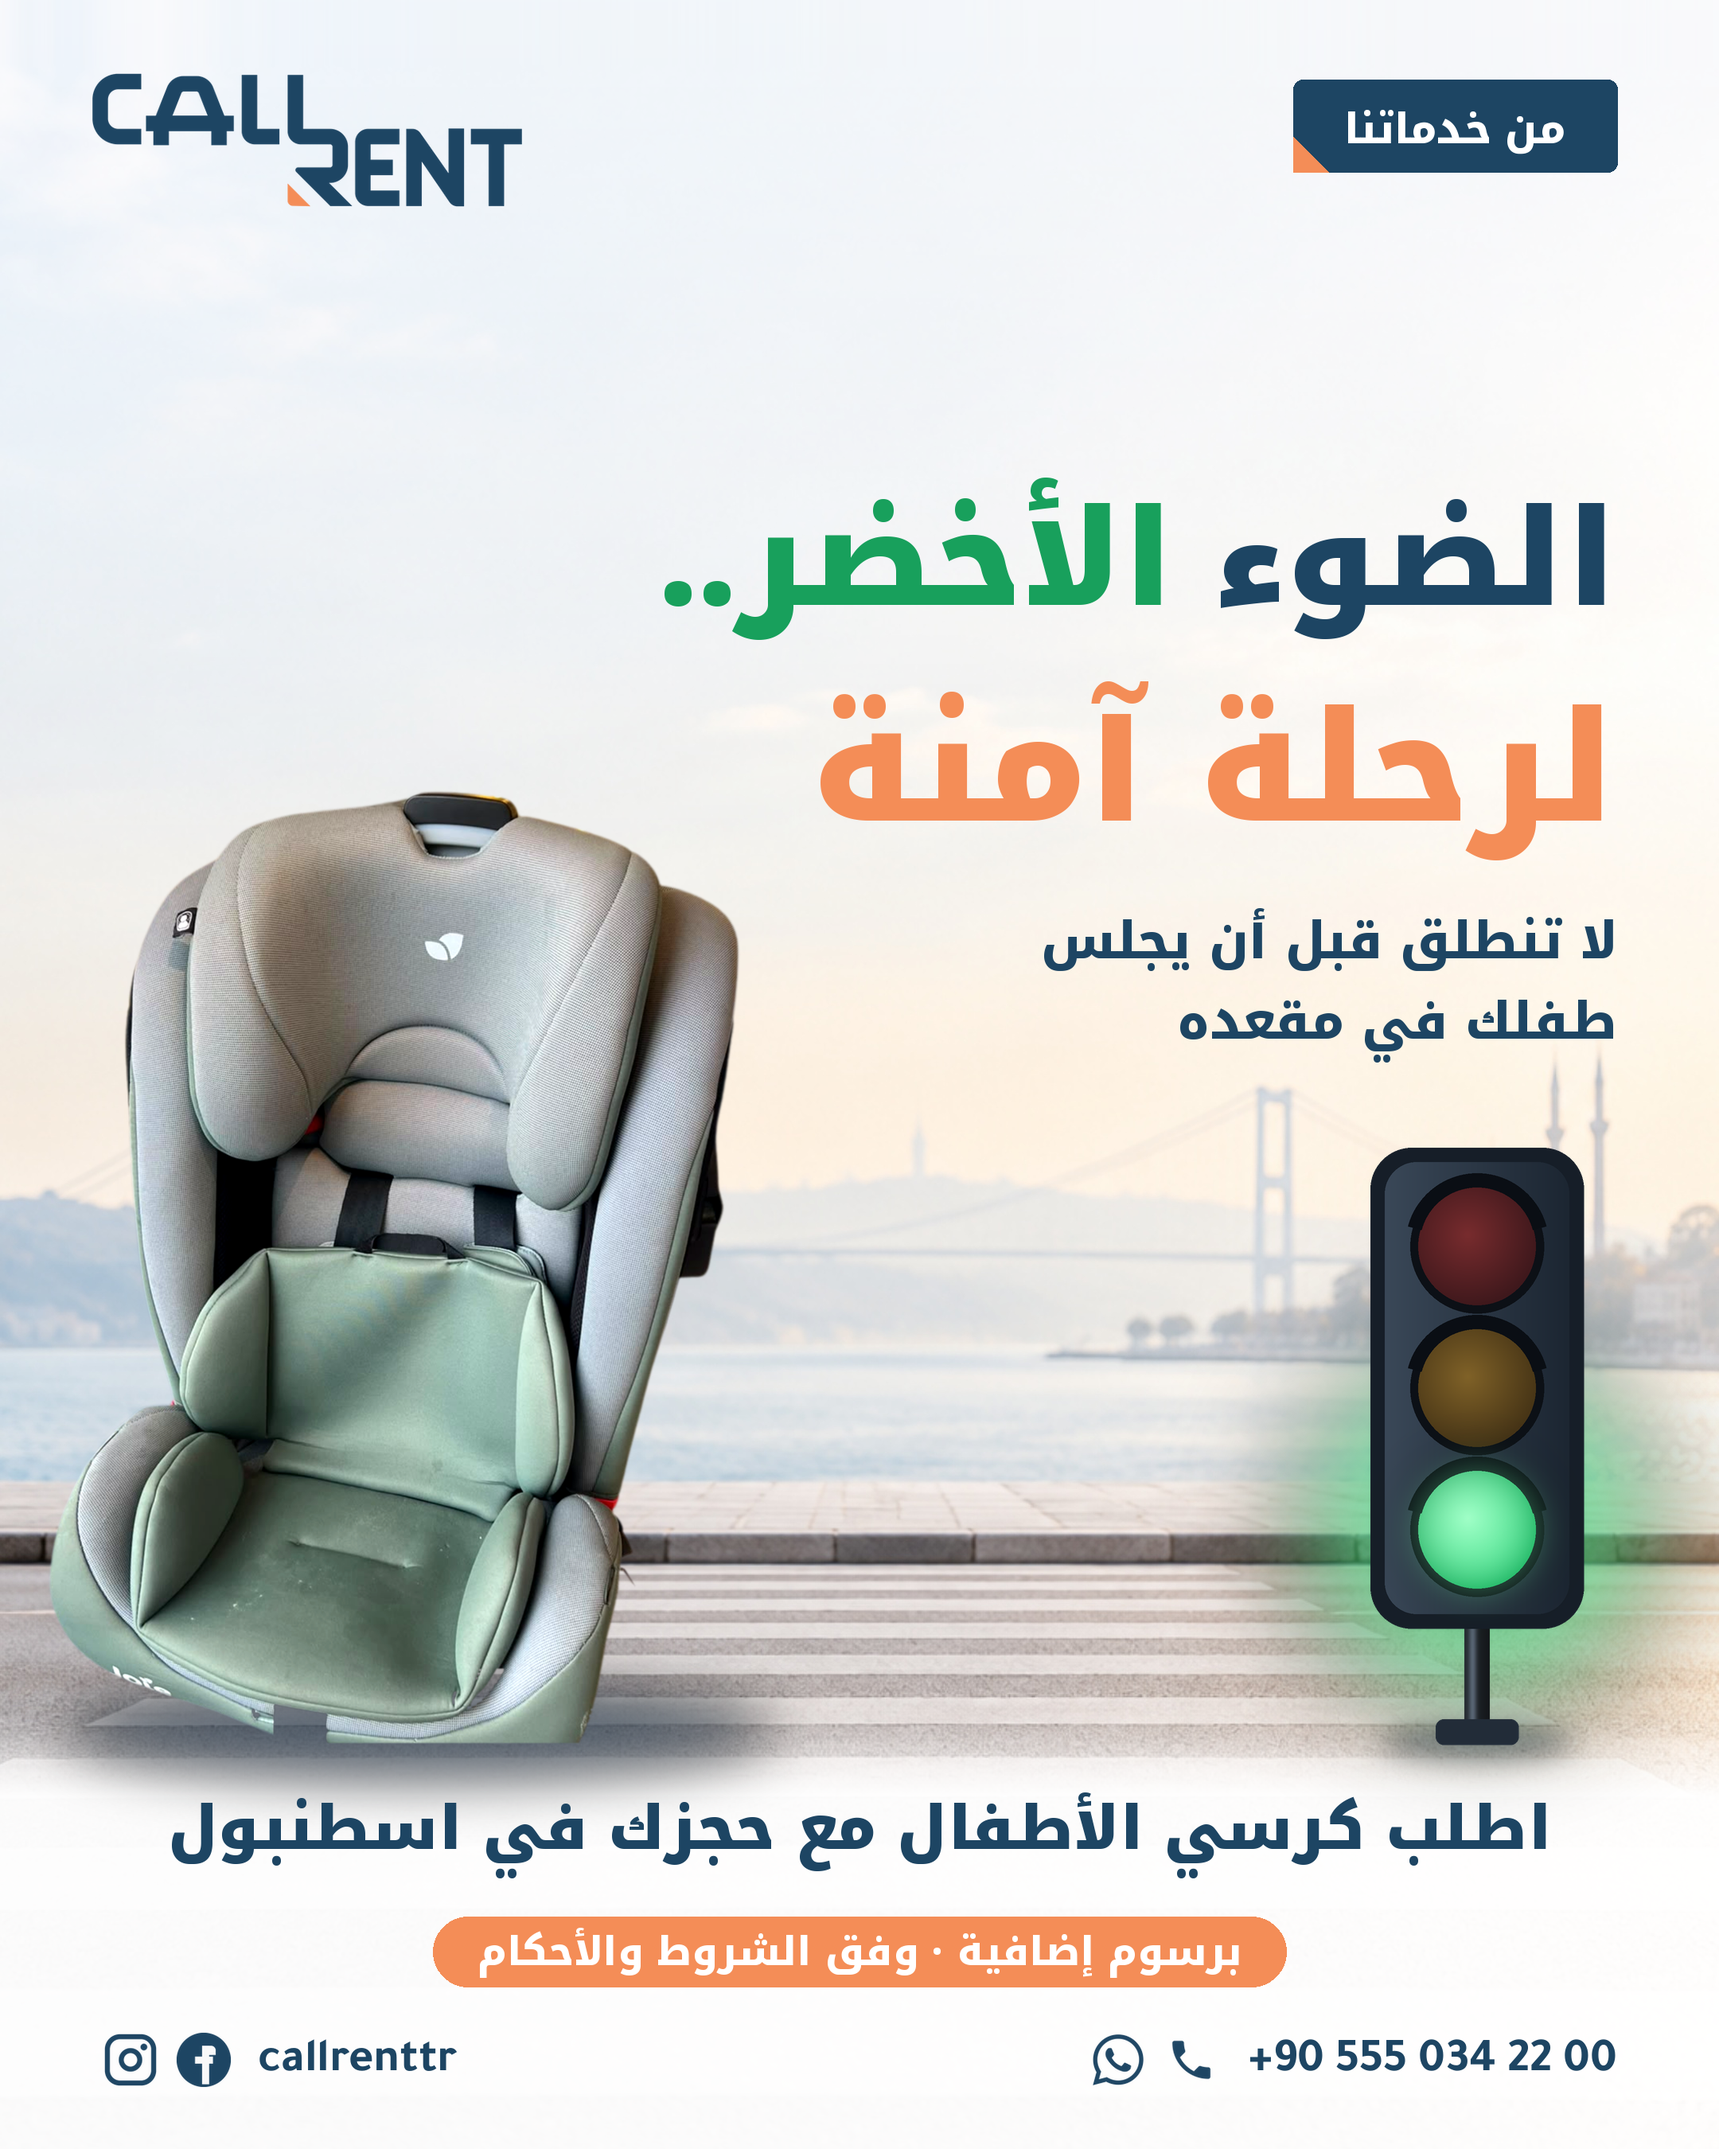
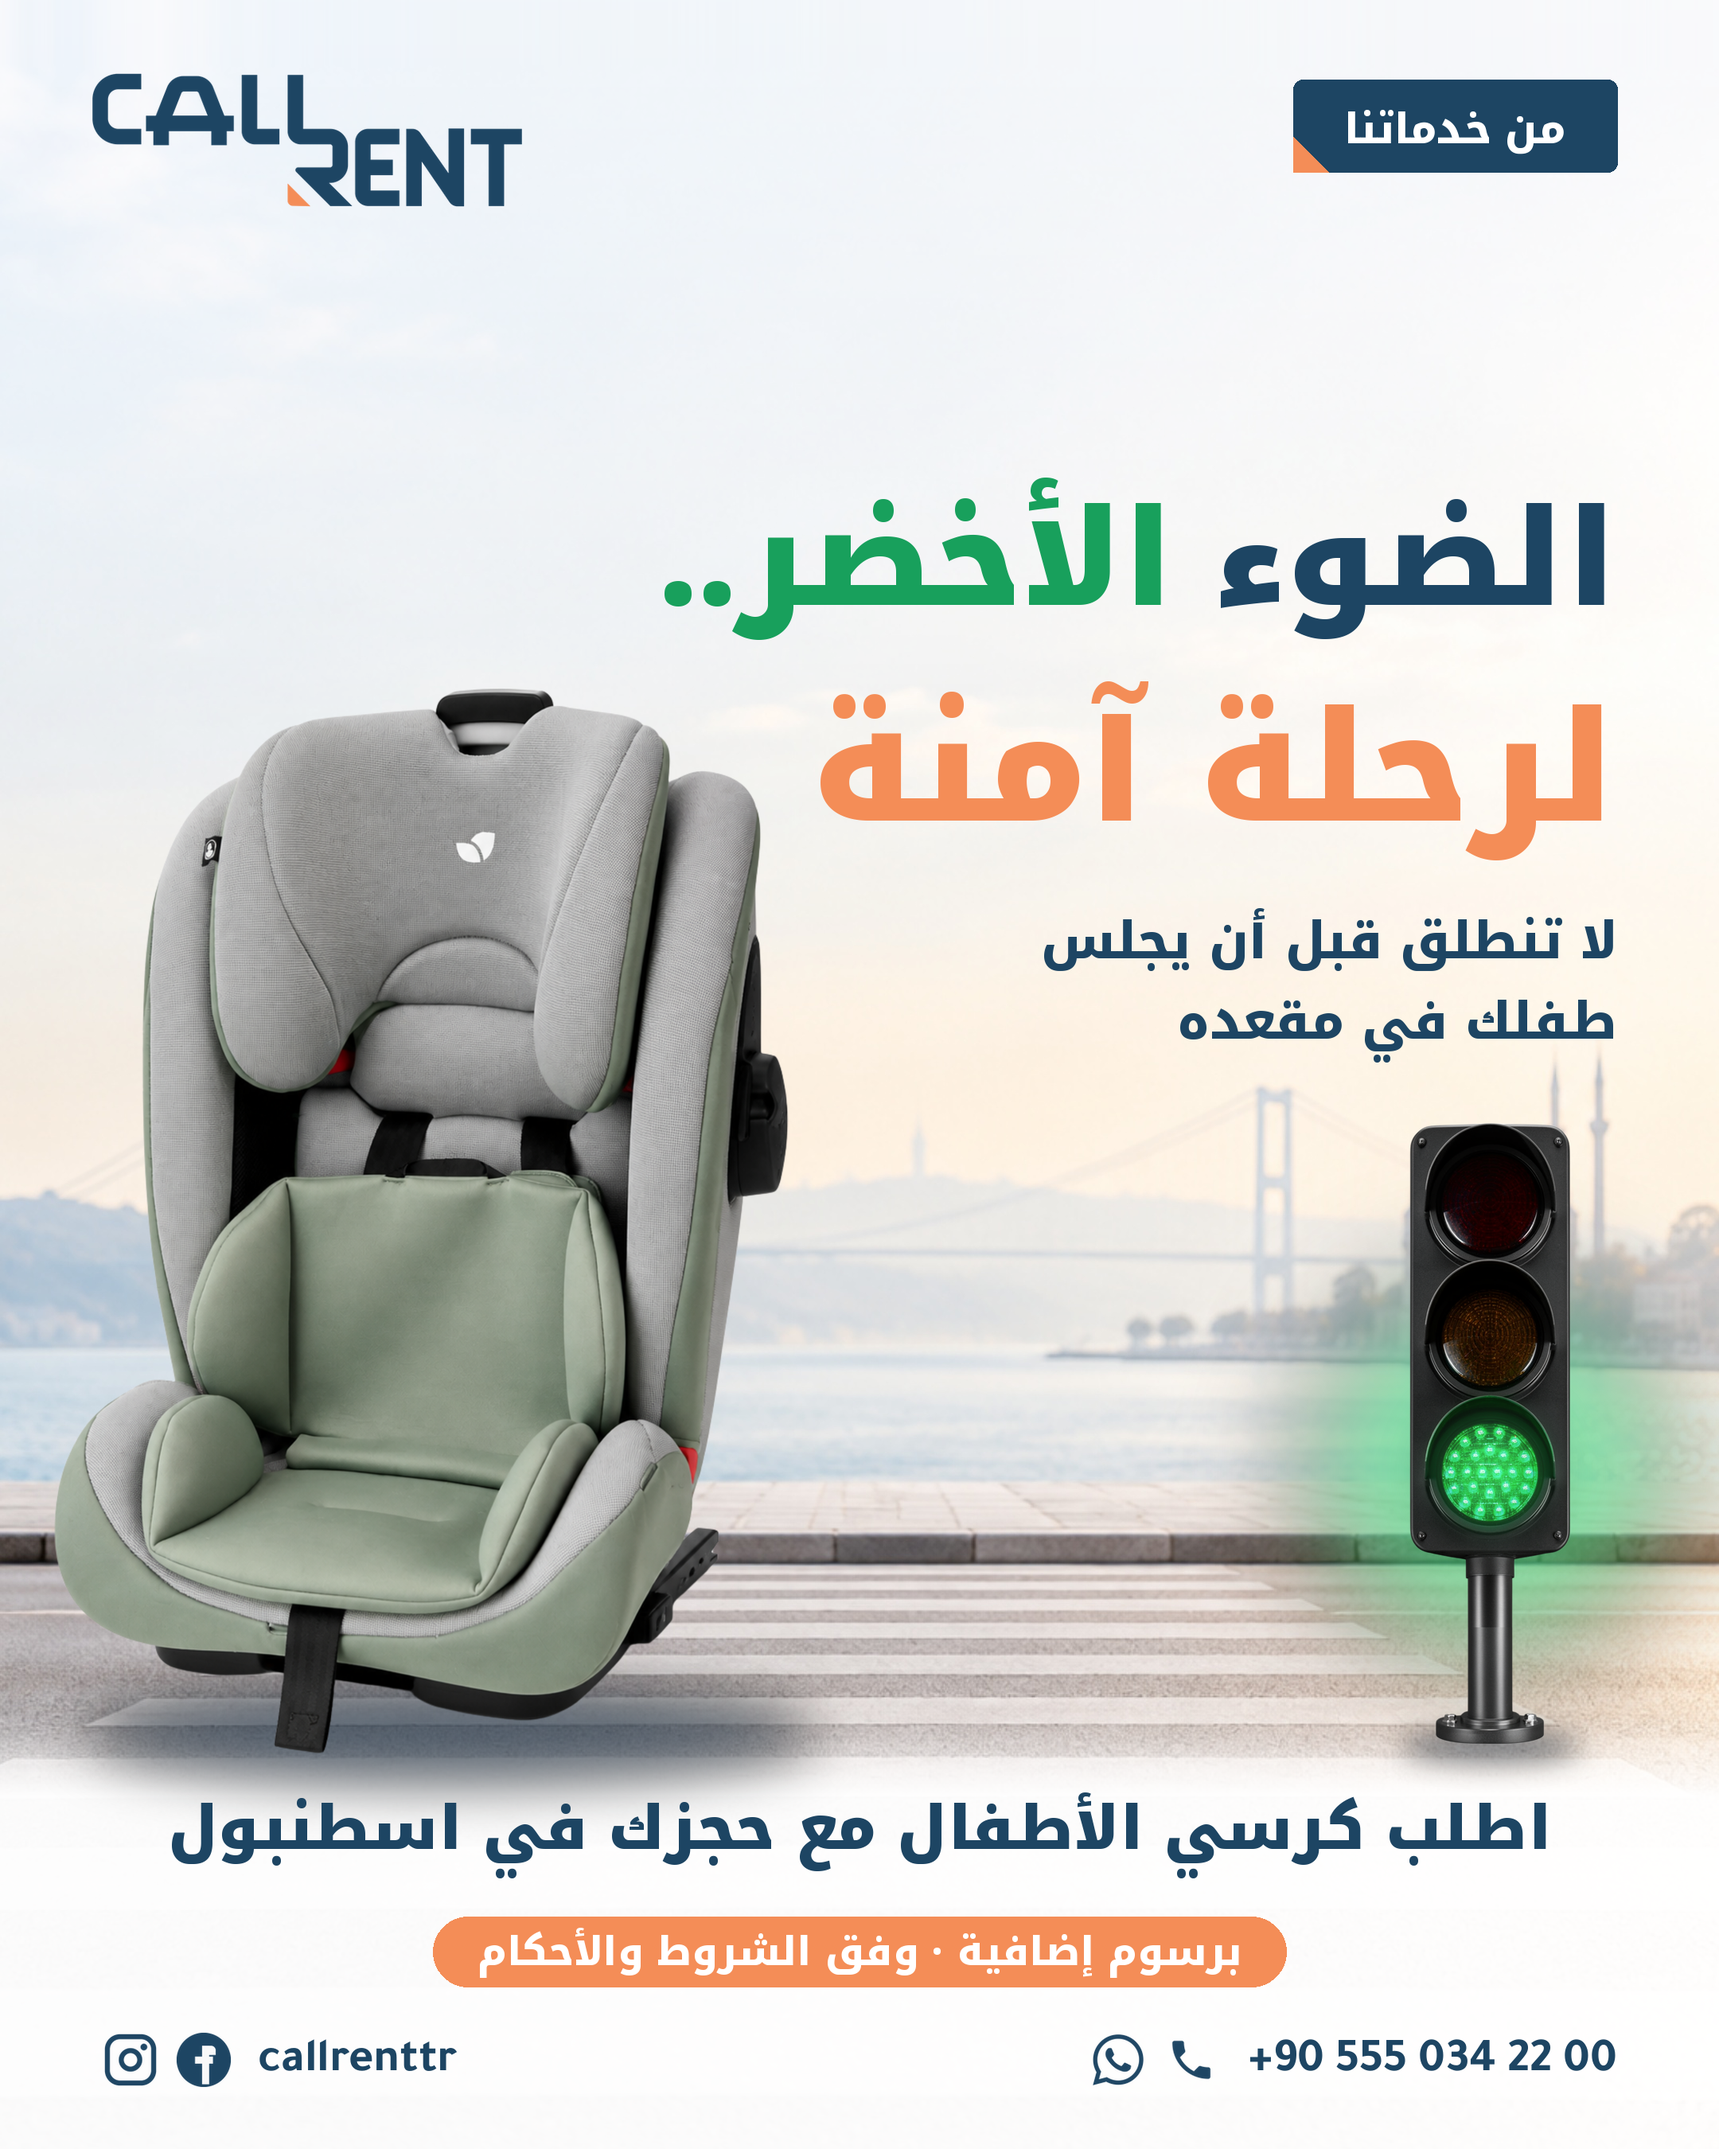
Child seat post: seat re-shot by Canva as a studio product photo, real Canva traffic light instead of the drawn one
Claude-Session: https://claude.ai/code/session_01JWxxZZBXcuDznNNTjM86b7

Changed region(s): [[0.031, 0.3111, 0.4653, 0.84], [0.7444, 0.4978, 0.9926, 0.84], [0.4032, 0.7778, 0.4963, 0.84]]

diff --git a/marketing/posts/carseat_green.py b/marketing/posts/carseat_green.py
@@ -2,10 +2,10 @@
 
 usage: python3 carseat_green.py <brand-kit dir> <out.png>
 Scene: Canva (carseat-green-street.jpg): a bright Istanbul street, zebra crossing in front, the Bosphorus Bridge
-in the haze. Seat: the company's own green seat (carseat-green-src.jpg, photo from the user), cut out with
-Canva's background remover (carseat-green-cutout.png); the straps hanging under its base are masked off.
-The traffic light is drawn here (Canva's image quota was cooling down): only its green lamp is lit, and that
-green is echoed in the headline. Layout in 1080 units; every line is placed from its measured ink box with at
+in the haze. Seat: the company's own green seat (carseat-green-src.jpg, photo from the user) re-shot by Canva as a
+studio product photo at a better angle and cut out (carseat-green-studio.png). Traffic light: Canva, cut out
+(carseat-green-light.png), only its green lamp lit; that green is echoed in the headline.
+Layout in 1080 units; every line is placed from its measured ink box with at
 least 24 units clear.
 """
 import sys, os
@@ -46,49 +46,19 @@ def veil(cv, fn, rgb=(255, 255, 255)):
 
 
 def seat():
-    """The cutout without the straps that hang under the base, with a little more depth and colour."""
-    im = Image.open(os.path.join(HERE, 'carseat-green-cutout.png')).convert('RGBA'); im = im.crop(im.getbbox())
-    a = np.array(im); h = a.shape[0]; cut = round(h*0.868)                 # the base ends here
-    lum = a[..., :3].mean(2); rows = np.arange(h)[:, None]
-    a[..., 3] = np.where((rows > round(h*0.80)) & (lum < 62), 0, a[..., 3])   # black straps below the cushion
-    a[cut:, :, 3] = 0
-    im = Image.fromarray(a); al = im.getchannel('A').filter(ImageFilter.MinFilter(5)).filter(ImageFilter.GaussianBlur(1.5))
-    rgb = ImageEnhance.Color(ImageEnhance.Contrast(im.convert('RGB')).enhance(1.10)).enhance(1.18)
-    im = rgb.convert('RGBA'); im.putalpha(al)
+    """The studio re-shoot of the company's seat (Canva, from the user's photo), cut out."""
+    im = Image.open(os.path.join(HERE, 'carseat-green-studio.png')).convert('RGBA')
     return im.crop(im.getbbox())
 
 
-def traffic_light(cx, top, ground, hw=116, hh=284):
-    """A signal on a pole, drawn at 2x and reduced: dark head, visors, red and amber off, green on. Units in, layer out."""
-    Q = 2*K; lay = Image.new('RGBA', (W*2, H*2), (0, 0, 0, 0)); d = ImageDraw.Draw(lay)
-    def q(v): return round(v*Q)
-    # pole and foot
-    pw = 16
-    for i in range(q(pw)):
-        t = i/q(pw); c = 46 + 70*np.exp(-((t - 0.32)/0.16)**2) - 22*t
-        d.line([(q(cx - pw/2) + i, q(top + hh - 10)), (q(cx - pw/2) + i, q(ground))], fill=(int(c*0.80), int(c*0.92), int(c*1.05), 255))
-    d.rounded_rectangle((q(cx - 26), q(ground - 12), q(cx + 26), q(ground + 4)), radius=q(5), fill=(34, 44, 56, 255))
-    # head: back plate, body
-    x0, x1 = cx - hw/2, cx + hw/2
-    d.rounded_rectangle((q(x0 - 9), q(top - 9), q(x1 + 9), q(top + hh + 9)), radius=q(26), fill=(22, 30, 40, 255))
-    body = Image.new('RGBA', (q(hw), q(hh)), (0, 0, 0, 0)); g = np.linspace(0, 1, q(hw))[None, :, None]
-    col = np.array((58, 72, 88), np.float32)*(1 - g) + np.array((28, 38, 50), np.float32)*g
-    body = Image.fromarray(np.repeat(col, q(hh), 0).astype(np.uint8)).convert('RGBA')
-    mk = Image.new('L', body.size, 0); ImageDraw.Draw(mk).rounded_rectangle((0, 0, q(hw) - 1, q(hh) - 1), radius=q(20), fill=255)
-    lay.paste(body, (q(x0), q(top)), mk)
-    r = 37; step = (hh - 2*r - 2*16)/2
-    lamps = [((120, 44, 46), (62, 24, 28)), ((128, 98, 40), (70, 52, 22)), ((190, 255, 214), (26, 196, 104))]
-    centres = []
-    for i, (cin, cout) in enumerate(lamps):
-        cy = top + 16 + r + i*step; centres.append(cy)
-        d.ellipse((q(cx - r - 5), q(cy - r - 5), q(cx + r + 5), q(cy + r + 5)), fill=(12, 16, 22, 255))
-        n = q(2*r); yy, xx = np.mgrid[0:n, 0:n].astype(np.float32)
-        rr = np.clip(np.sqrt((xx - n*0.42)**2 + (yy - n*0.40)**2)/(n*0.62), 0, 1)[..., None]
-        lens = np.array(cin, np.float32)*(1 - rr) + np.array(cout, np.float32)*rr
-        lm = Image.new('L', (n, n), 0); ImageDraw.Draw(lm).ellipse((0, 0, n - 1, n - 1), fill=255)
-        lay.paste(Image.fromarray(lens.astype(np.uint8)).convert('RGBA'), (q(cx - r), q(cy - r)), lm)
-        d.arc((q(cx - r - 8), q(cy - r - 9), q(cx + r + 8), q(cy + r + 7)), 195, 345, fill=(10, 14, 20, 255), width=q(9))   # visor
-    return lay.resize((W, H), Image.LANCZOS), centres[2]
+def traffic_light(head_h):
+    """The Canva traffic light with its pole shortened (a uniform stretch of pole is dropped) so the head can be
+    large; returns the image scaled so the head is head_h units tall, and the green lamp's centre in it (px)."""
+    im = Image.open(os.path.join(HERE, 'carseat-green-light.png')).convert('RGBA'); im = im.crop(im.getbbox())
+    top, bot = im.crop((0, 0, im.width, 1700)), im.crop((0, 3250, im.width, im.height))     # head + pole | pole + foot
+    out = Image.new('RGBA', (im.width, top.height + bot.height), (0, 0, 0, 0)); out.paste(top, (0, 0)); out.paste(bot, (0, top.height))
+    sc = S(head_h)/1500
+    return out.resize((round(out.width*sc), round(out.height*sc)), Image.LANCZOS), (271*sc, 1178*sc)
 
 
 # the street, pushed 40 units down so the hazy skyline sits under the text; the sky above continues upward
@@ -99,19 +69,20 @@ veil(cv, lambda y: (1 - y/620)*0.55)                                    # a brig
 veil(cv, lambda y: np.clip((y - 1076)/52, 0, 1)**1.1*0.96)                           # white floor for the call to action and footer
 
 # traffic light on the right, standing on the crossing
-GROUND = 1092; TX, TTOP = 928, 730
-tl, gy = traffic_light(TX, TTOP, GROUND)
-blur_layer(cv, lambda d: d.ellipse((S(TX - 60), S(GROUND - 8), S(TX + 60), S(GROUND + 12)), fill=(30, 50, 70, 130)), 8)
-blur_layer(cv, lambda d: d.ellipse((S(TX - 120), S(gy - 120), S(TX + 120), S(gy + 120)), fill=(40, 220, 120, 150)), 34)
-cv.alpha_composite(tl)
-blur_layer(cv, lambda d: d.ellipse((S(TX - 46), S(gy - 46), S(TX + 46), S(gy + 46)), fill=(120, 255, 180, 110)), 14)
+GROUND = 1096; TX = 936
+tl, (gcx, gcy) = traffic_light(280); lx, ly = S(TX) - tl.width//2, S(GROUND) - tl.height
+gx, gy = lx + gcx, ly + gcy
+blur_layer(cv, lambda d: d.ellipse((S(TX - 56), S(GROUND - 8), S(TX + 56), S(GROUND + 10)), fill=(30, 50, 70, 150)), 8)
+blur_layer(cv, lambda d: d.ellipse((gx - S(120), gy - S(120), gx + S(120), gy + S(120)), fill=(40, 220, 120, 140)), 34)
+cv.alpha_composite(tl, (lx, ly))
+blur_layer(cv, lambda d: d.ellipse((gx - S(40), gy - S(40), gx + S(40), gy + S(40)), fill=(120, 255, 180, 90)), 14)
 
 # the seat on the left, on the crossing, with a contact shadow
-st = seat(); SH = 600; sw = round(S(SH)*st.width/st.height); sx, sy = S(30), S(GROUND + 4 - SH)
+st = seat(); SH = 670; sw = round(S(SH)*st.width/st.height); sx, sy = S(34), S(GROUND + 6 - SH)
 st = st.resize((sw, S(SH)), Image.LANCZOS)
-blur_layer(cv, lambda d: d.ellipse((sx + S(10), sy + S(SH) - S(40), sx + sw + S(20), sy + S(SH) + S(22)), fill=(25, 45, 65, 170)), 16)
+blur_layer(cv, lambda d: d.ellipse((sx + S(20), sy + S(SH) - S(44), sx + sw + S(16), sy + S(SH) + S(18)), fill=(25, 45, 65, 170)), 16)
 cv.alpha_composite(st, (sx, sy))
-print('seat x', round(sx/K), '-', round((sx + sw)/K), 'y', round(sy/K), '-', round(sy/K) + SH, '| light head', TTOP, '-', TTOP + 284, 'x', TX - 67, '-', TX + 67)
+print('seat x', round(sx/K), '-', round((sx + sw)/K), 'y', round(sy/K), '-', round(sy/K) + SH, '| light x', round(lx/K), '-', round((lx + tl.width)/K), 'y', round(ly/K), '-', GROUND)
 
 d = ImageDraw.Draw(cv)
 # logo + «من خدماتنا» badge
@@ -134,7 +105,7 @@ fs = F(AR_BOLD, S(32)); y += S(30)
 for t in ('لا تنطلق قبل أن يجلس', 'طفلك في مقعده'):
     up, dn, ws = ink(t, fs); b = y + up; ar(d, (R_, b), t, fs, N); y = b + dn + S(18)
 y -= S(18)
-print('subline ends', round(y/K), 'left edge', round((R_ - ws)/K), '| seat top', round(sy/K), '| light top', TTOP - 9)
+print('subline ends', round(y/K), 'left edge', round((R_ - ws)/K), '| seat top', round(sy/K), '| light top', round(ly/K))
 
 # call to action and the terms chip on the white floor
 t = 'اطلب كرسي الأطفال مع حجزك في اسطنبول'; f = F(AR_BLACK, S(38)); up, dn, _ = ink(t, f); c_top = S(1126)
